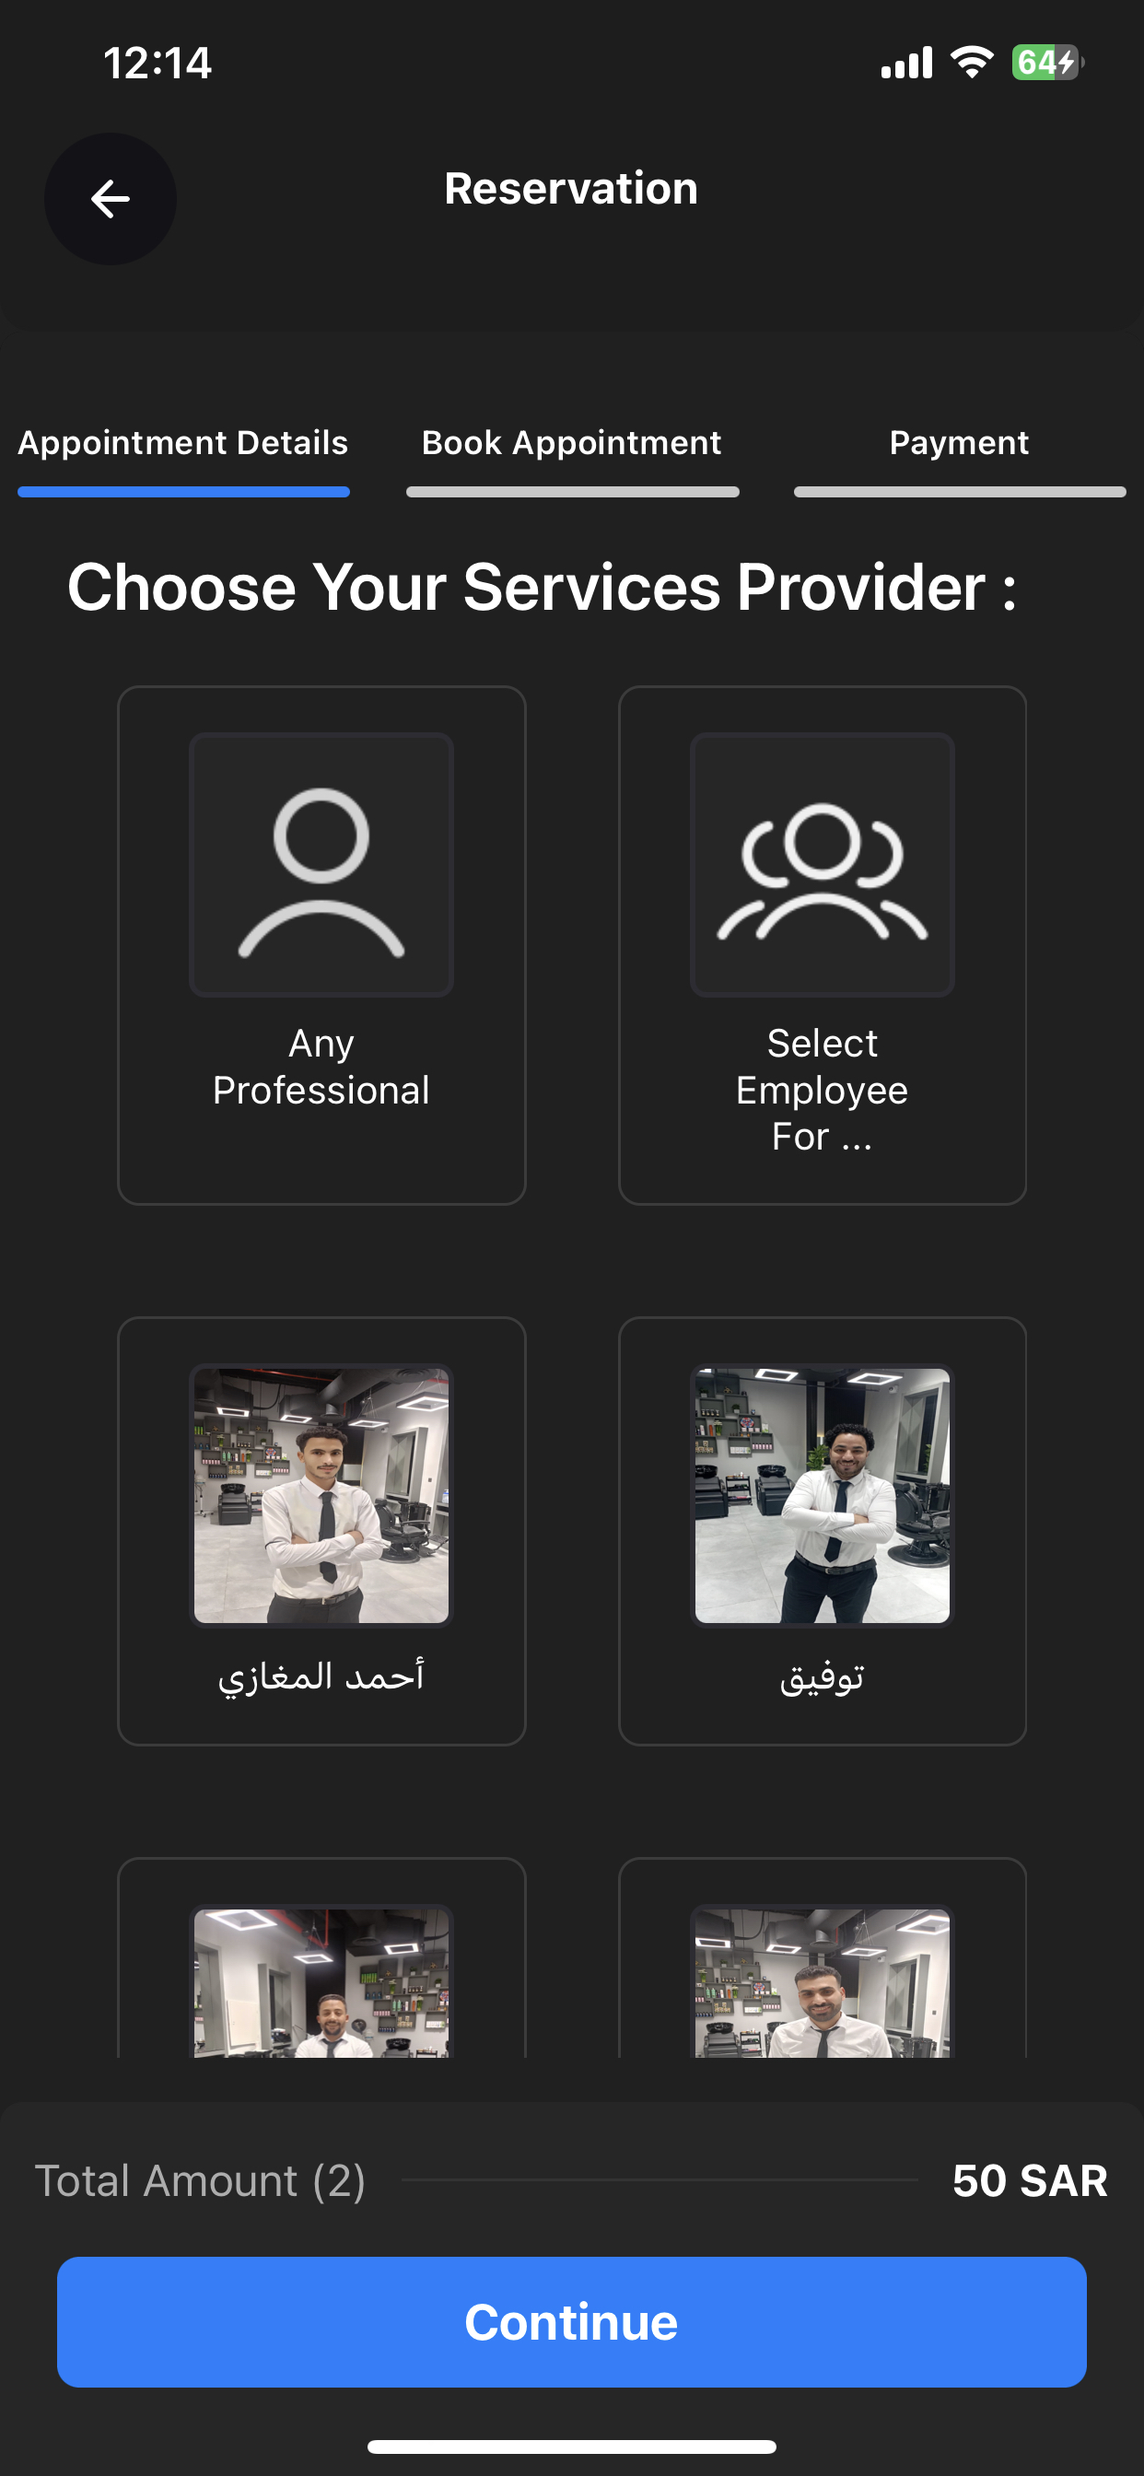
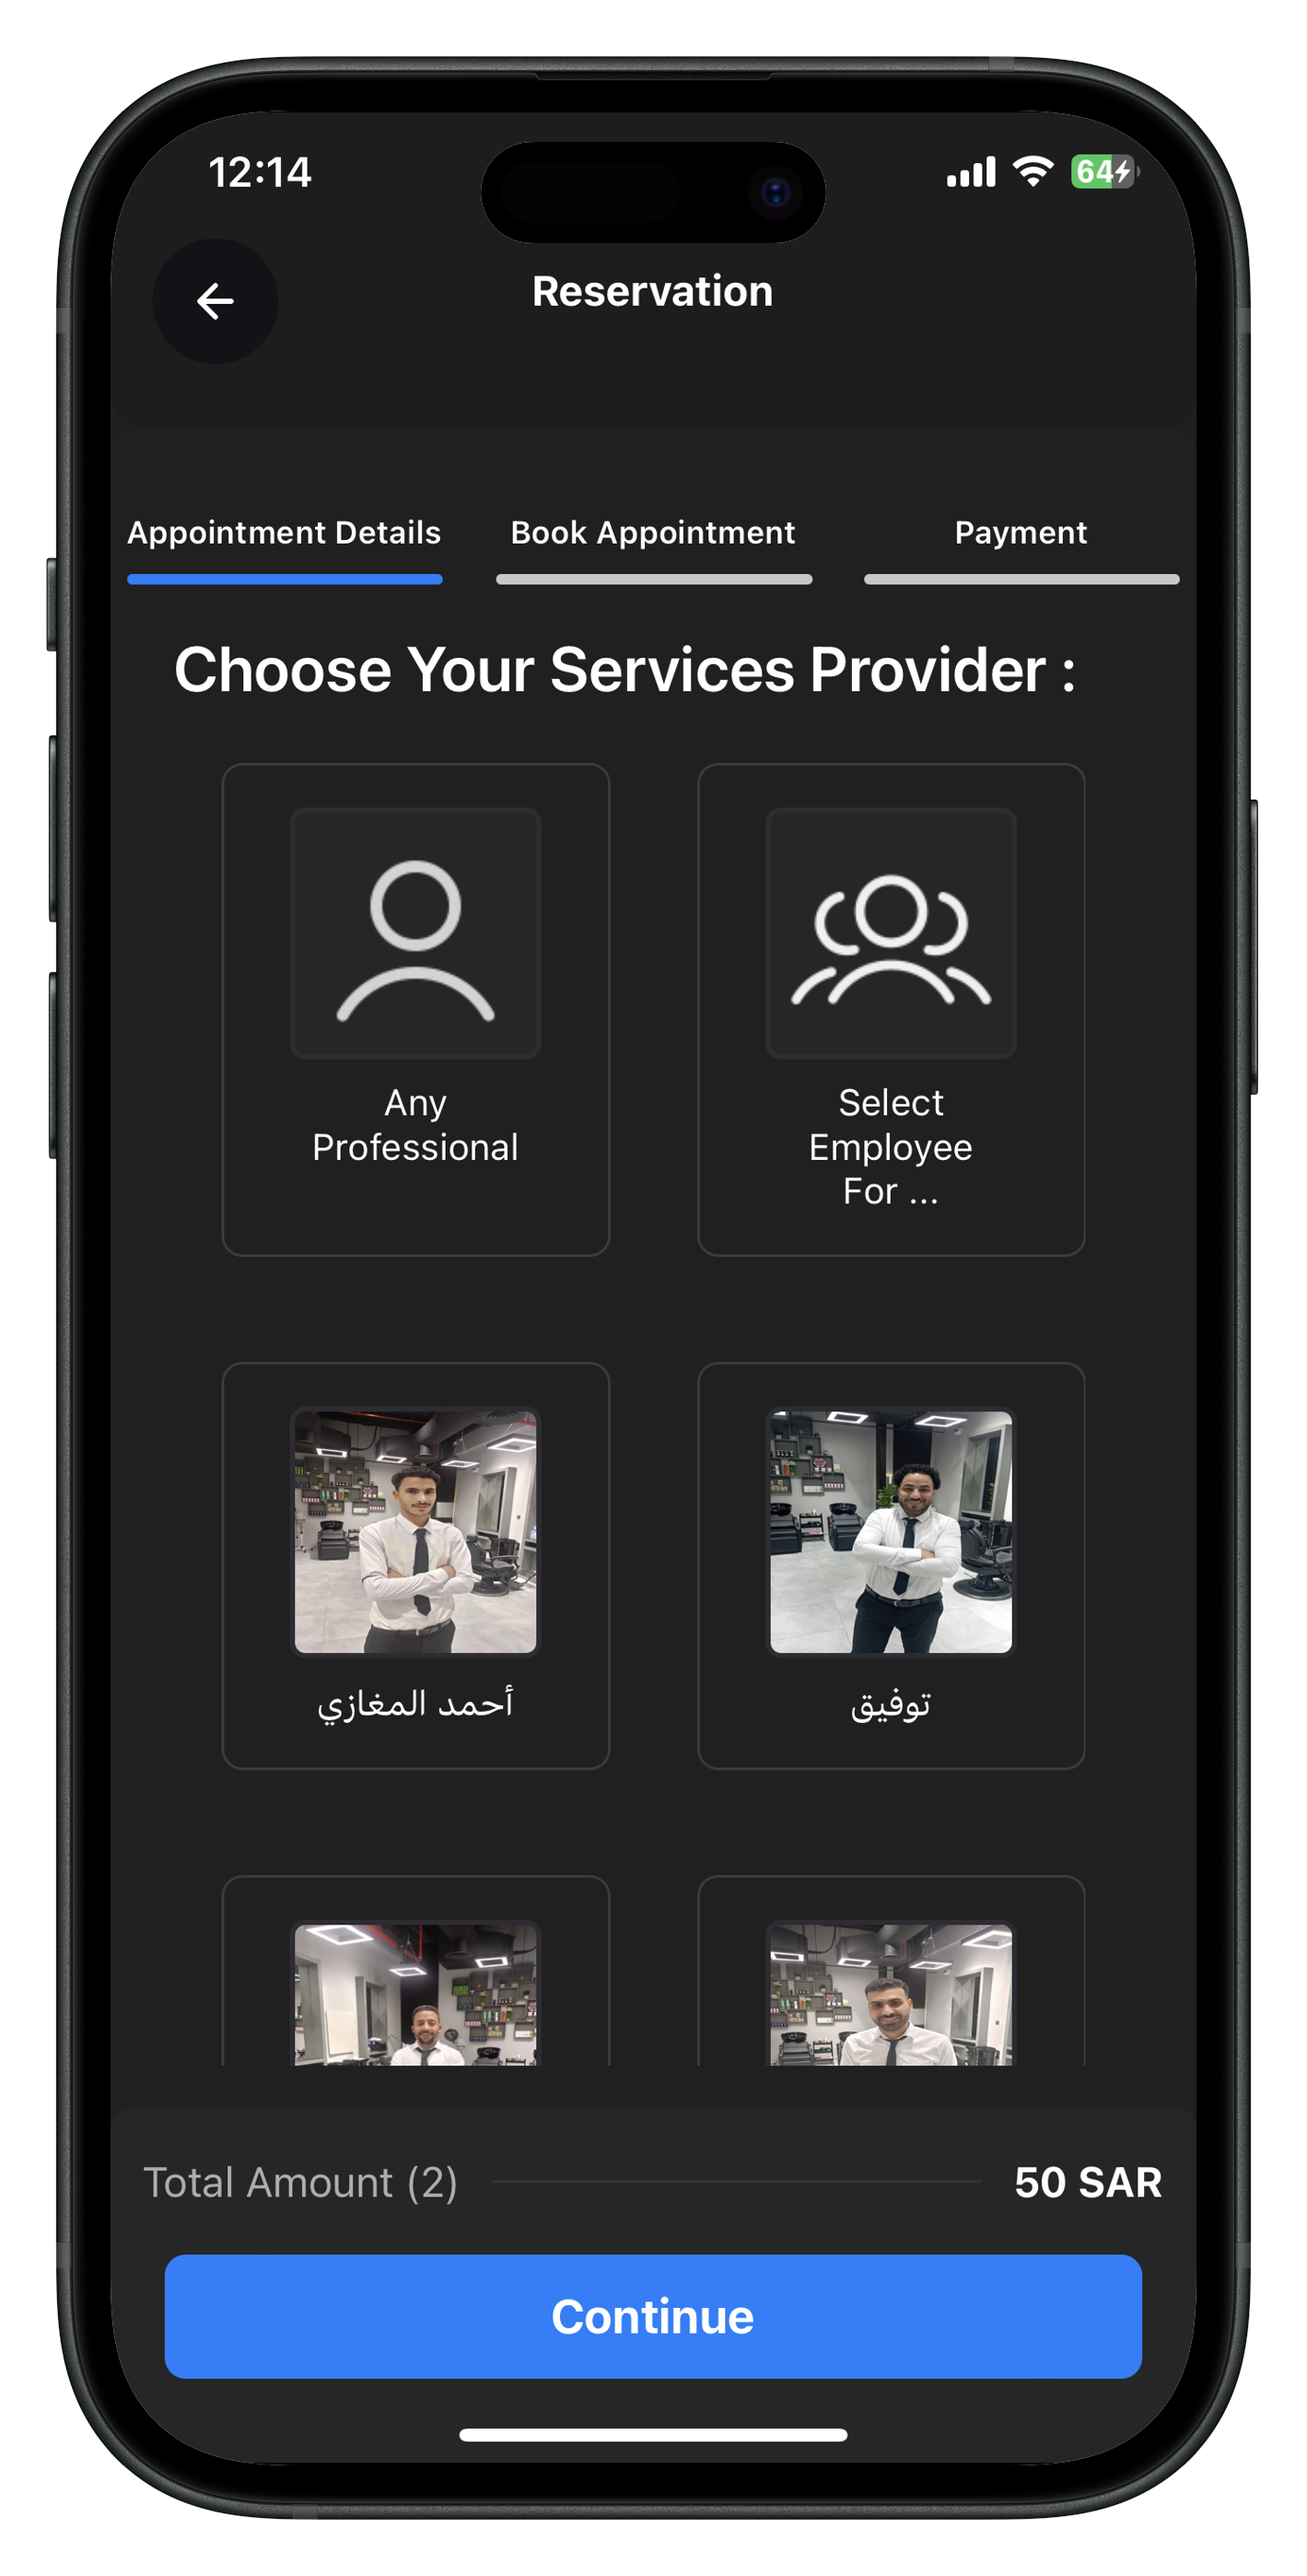
app screens fixed

diff --git a/src/components/TaskManagementApp/AppScreens.tsx b/src/components/TaskManagementApp/AppScreens.tsx
@@ -47,10 +47,6 @@ const AppScreens: React.FC = () => {
             <h6 className="text-primary-color uppercase text-[16px] md:text-[18px] font-medium mb-[5px]">
               app screens
             </h6>
-            <h2 className="text-[28px] md:text-[36px] leading-[36px] md:leading-[45px]">
-              {/* A great Task Management App is the ability to customize your
-              workflow */}
-            </h2>
           </div>
 
           {screenData && (
@@ -83,6 +79,7 @@ const AppScreens: React.FC = () => {
               }}
               modules={[Autoplay, Pagination]}
               className="tm-app-screens-slider"
+
               data-aos="fade-up"
               data-aos-delay="200"
               data-aos-duration="600"
@@ -91,17 +88,13 @@ const AppScreens: React.FC = () => {
               {screenData &&
                 screenData.map((value, i) => (
                   <SwiperSlide key={i} className="text-center">
-                    <div className="relative inline-block w-[250px] h-[500px] bg-white border-[16px] border-black rounded-[30px] overflow-hidden shadow-[0_0_20px_rgba(0,0,0,0.3)]">
-                      <div className="absolute top-[16px] left-[50%] w-[60px] h-[5px] bg-black rounded-[10px] transform -translate-x-1/2"></div>
-                      <div className="absolute bottom-[16px] left-[50%] w-[50px] h-[50px] bg-black rounded-full transform -translate-x-1/2"></div>
-                      <Image
-                        src={value.image}
-                        alt="Screen"
-                        width={234}
-                        height={480}
-                        className="absolute top-0 left-0 right-0 bottom-0 m-auto"
-                      />
-                    </div>
+                    <Image
+                      src={value.image}
+                      alt="Screen"
+                      width={234}
+                      height={480}
+                      className="inline-block"
+                    />
                   </SwiperSlide>
                 ))}
             </Swiper>
